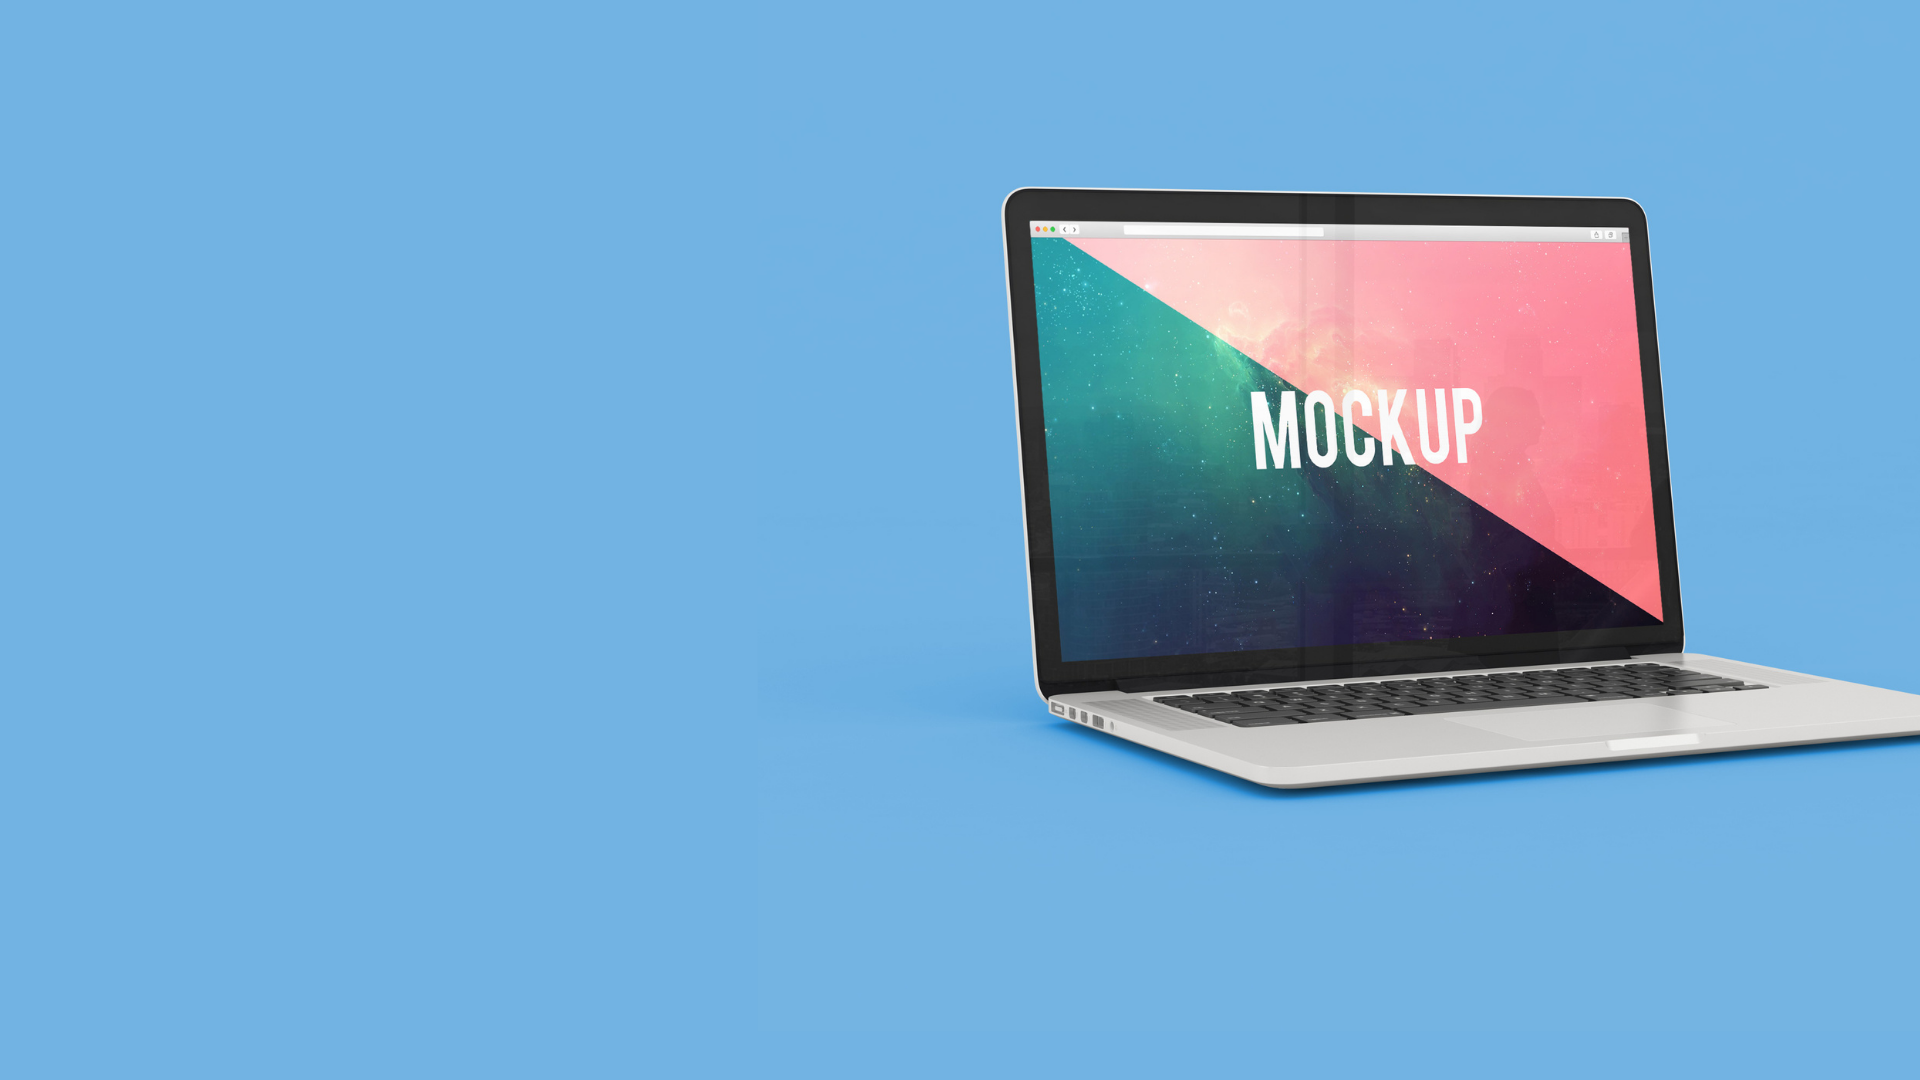
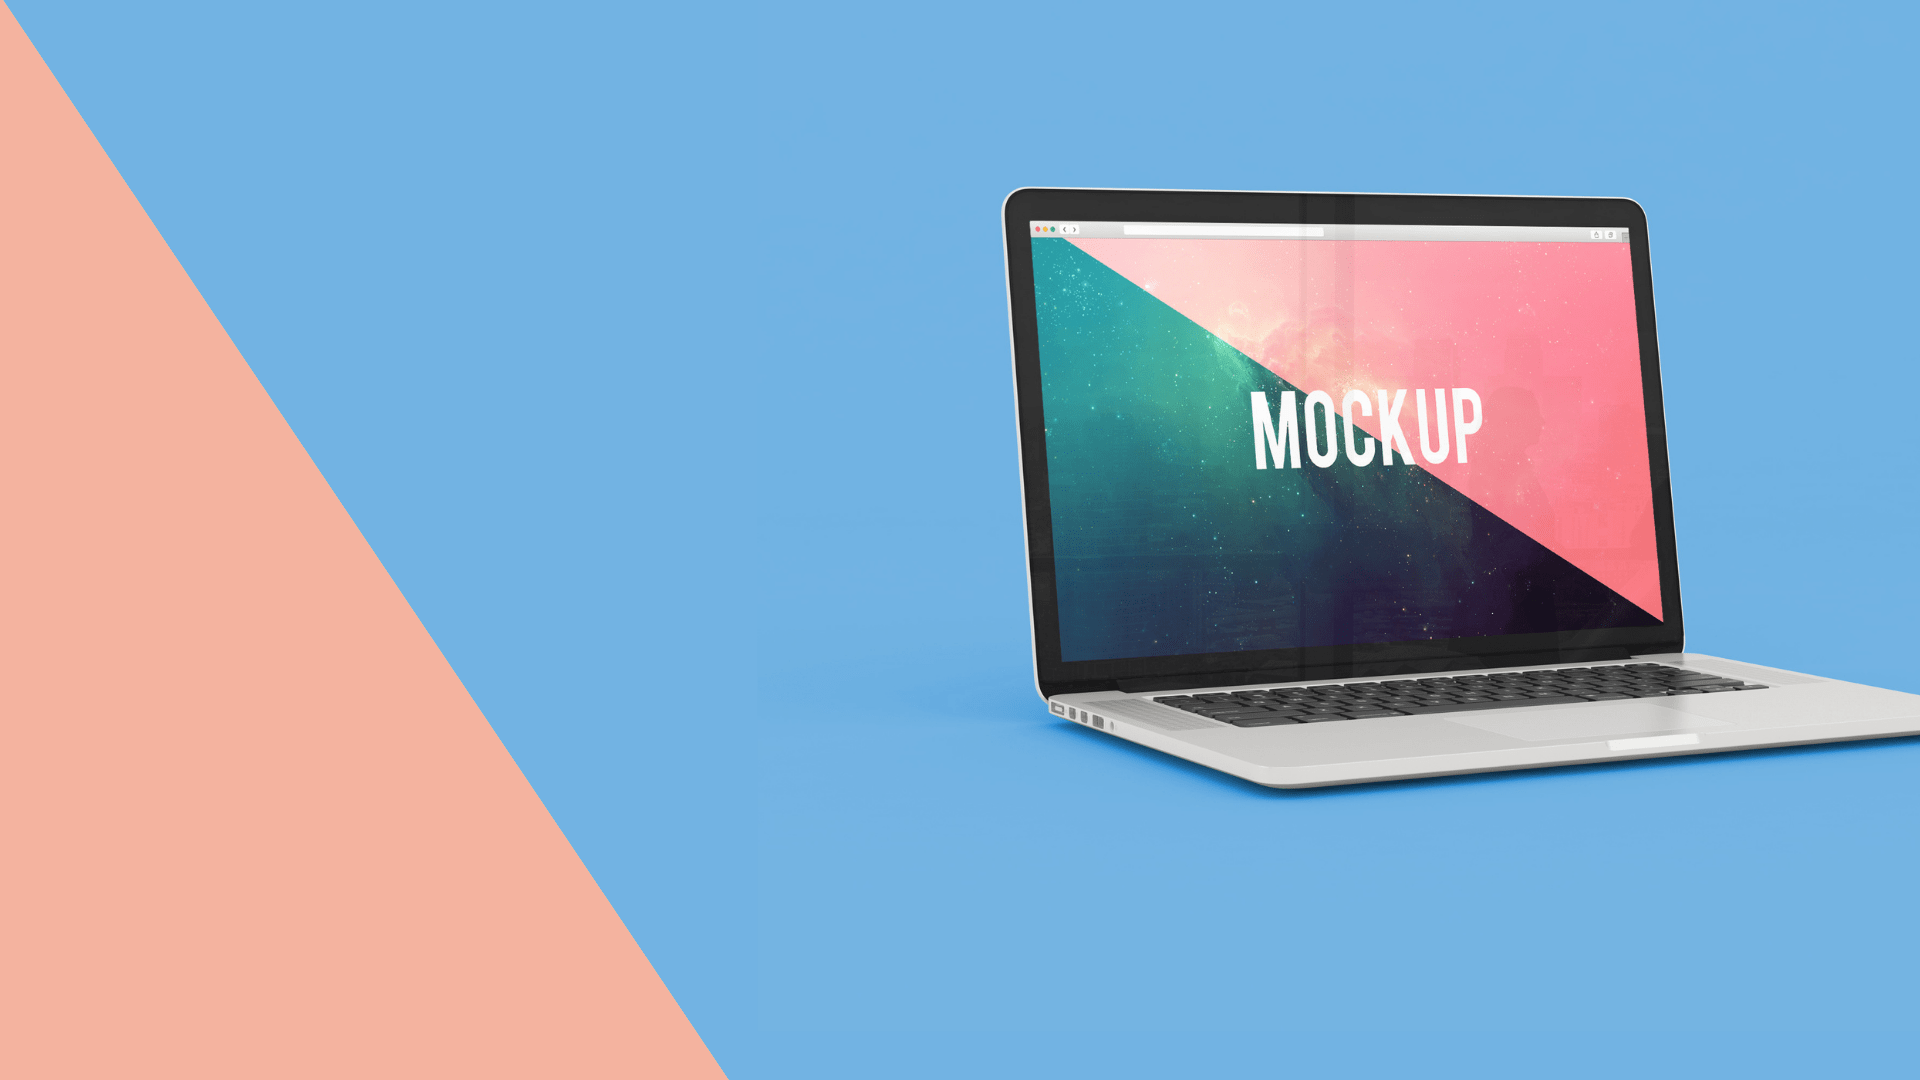
Cambio minimo

Changed region(s): [[0.0, 0.0, 0.375, 1.0]]

diff --git a/index.html b/index.html
@@ -32,7 +32,7 @@
 	<link href="assets/img/favicon.ico" rel="icon" type="image/x-icon" />
 
 </head>
-<body background="assets/img/Prueba-img.png">
+<body background="assets/img/Prueba.png">
 
 <header class="header">
 	<nav class="navbar navbar-expand-lg navbar-light bg-light">
